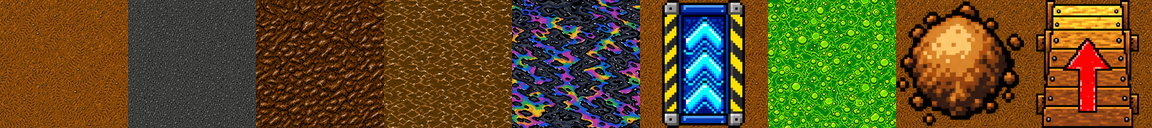
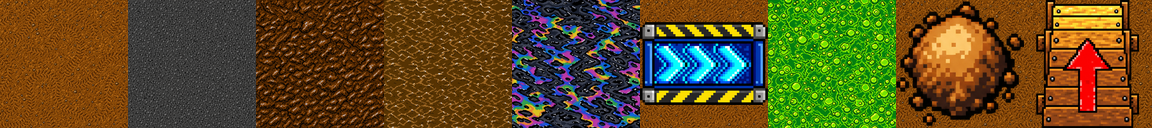
Fill the stadium floor with dirt and orient the boost pad along the start straight

Changed region(s): [[0.5312, 0.0, 0.6875, 1.0]]

diff --git a/scripts/make-track.ts b/scripts/make-track.ts
@@ -84,16 +84,16 @@ function offset(center: P[], d: number): P[] {
 
 function build(def: TrackDef) {
   const center = catmullRom(def.control, 12);
-  const surfaceOf = (p: P): Surface | null => {
-    if (distToPolyline(p, center, true) > HALF_WIDTH + 6) return null;
-    for (const z of def.zones) if (z.test(p)) return z.surface;
+  // The whole stadium floor is dirt, like the original; walls define the lanes. Zones only apply on the lane.
+  const surfaceOf = (p: P): Surface => {
+    if (distToPolyline(p, center, true) <= HALF_WIDTH + 6) for (const z of def.zones) if (z.test(p)) return z.surface;
     return 'dirt';
   };
   const data: number[] = [];
   for (let r = 0; r < ROWS; r++)
     for (let c = 0; c < COLS; c++) {
       const s = surfaceOf({ x: c * TILE + TILE / 2, y: r * TILE + TILE / 2 });
-      data.push(s ? SURFACES.indexOf(s) + 1 : 0);
+      data.push(SURFACES.indexOf(s) + 1);
     }
 
   let id = 1;

diff --git a/src/client/scenes/RaceScene.ts b/src/client/scenes/RaceScene.ts
@@ -36,7 +36,6 @@ export class RaceScene extends Phaser.Scene {
 
   private drawTrack() {
     const { world, tile } = config;
-    this.add.tileSprite(0, 0, world.width, world.height, 'infield').setOrigin(0).setTileScale(tile / TILE_PX);
     const rows: number[][] = [];
     for (let r = 0; r < this.track.rows; r++) {
       rows.push(this.track.surface.slice(r * this.track.cols, (r + 1) * this.track.cols).map((s) => (s ? SURFACE_KINDS.indexOf(s) : -1)));

diff --git a/src/client/main.ts b/src/client/main.ts
@@ -9,7 +9,7 @@ new Phaser.Game({
   parent: 'game',
   width: config.world.width,
   height: config.world.height,
-  backgroundColor: '#1a2a12',
+  backgroundColor: '#6b4a24',
   scale: { mode: Phaser.Scale.FIT, autoCenter: Phaser.Scale.CENTER_BOTH },
   render: { antialias: true, pixelArt: false, roundPixels: false },
   scene: [BootScene, RaceScene, HudScene],

diff --git a/src/client/scenes/BootScene.ts b/src/client/scenes/BootScene.ts
@@ -11,7 +11,6 @@ export class BootScene extends Phaser.Scene {
 
   preload() {
     this.load.image('surfaces', 'assets/surfaces.png');
-    this.load.image('infield', 'assets/infield.png');
     for (const c of TRUCK_COLORS) this.load.spritesheet(`truck-${c}`, `assets/truck-${c}.png`, { frameWidth: TRUCK_CELL, frameHeight: TRUCK_CELL });
   }
 

diff --git a/scripts/build-assets.py b/scripts/build-assets.py
@@ -33,14 +33,13 @@ def over(base, sprite):
 dirt = texture('dirt')
 tiles = {
     'dirt': dirt, 'tarmac': texture('tarmac'), 'mud': texture('mud'), 'water': texture('water'), 'oil': texture('oil'),
-    'boost': over(dirt, cell('boost', 2, 1, 1)), 'toxic': texture('toxic'),
+    'boost': over(dirt, cell('boost', 2, 1, 1).rotate(-90, expand=True)), 'toxic': texture('toxic'),
     'mogul': over(dirt, cell('moguls', 4, 1, 0)), 'ramp': over(dirt, cell('ramp', 2, 1, 0)),
 }
 strip = Image.new('RGBA', (TILE * len(SURFACES), TILE))
 for i, s in enumerate(SURFACES): strip.paste(tiles[s], (i * TILE, 0))
 strip.save(OUT / 'surfaces.png')
 strip.resize((32 * len(SURFACES), 32), Image.LANCZOS).save(Path('tracks') / 'surfaces.png')  # lets Tiled show the surface layer
-texture('infield').save(OUT / 'infield.png')
 
 # Trucks: rotate the full-resolution source, then Lanczos to 256 px cells. Frame 0 = up, clockwise.
 for color in ['cyan', 'pink', 'lime', 'orange', 'violet']:
